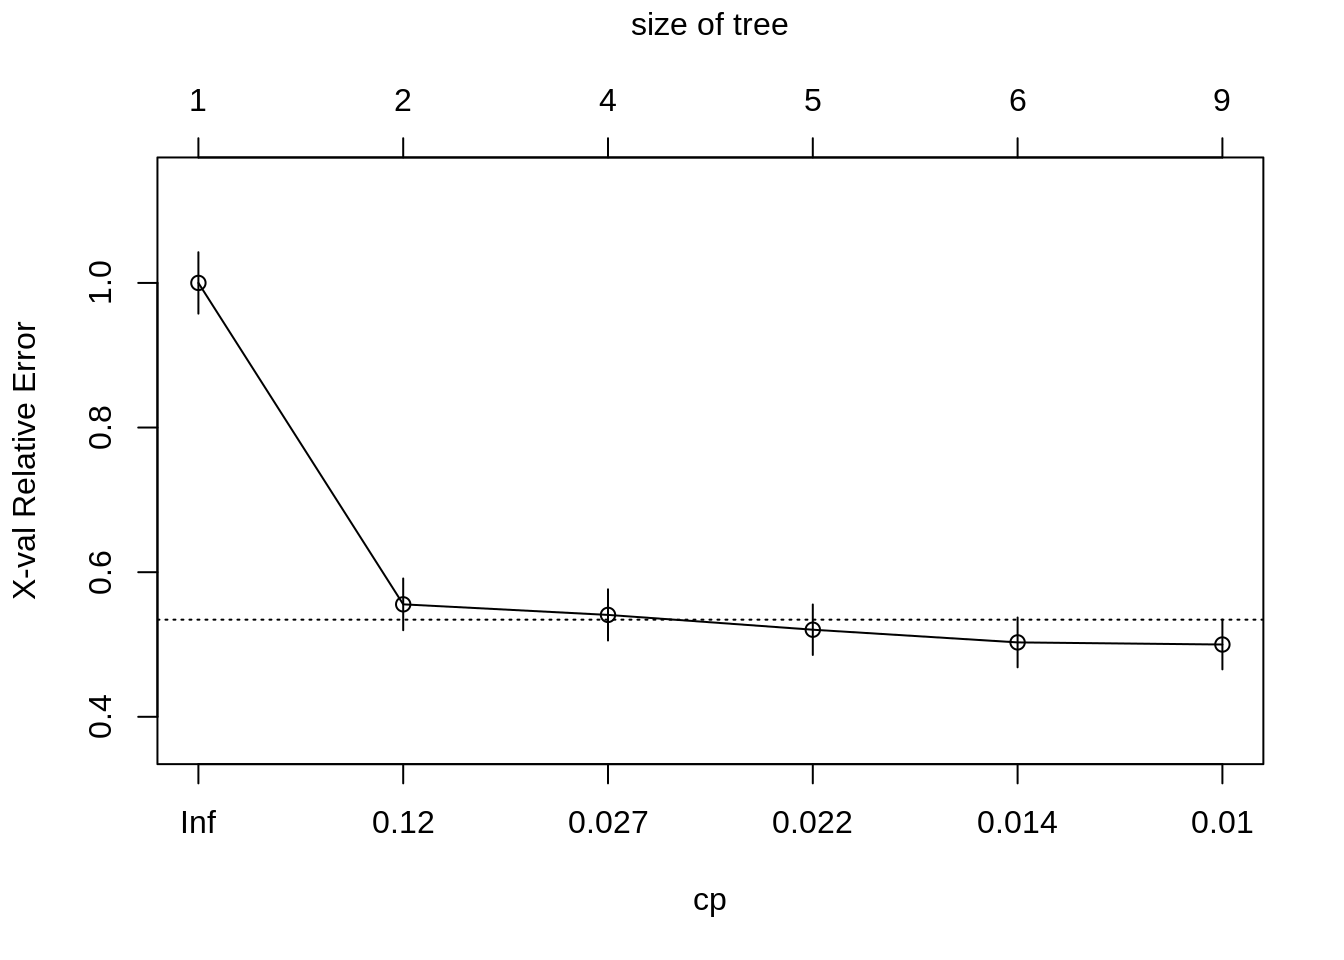
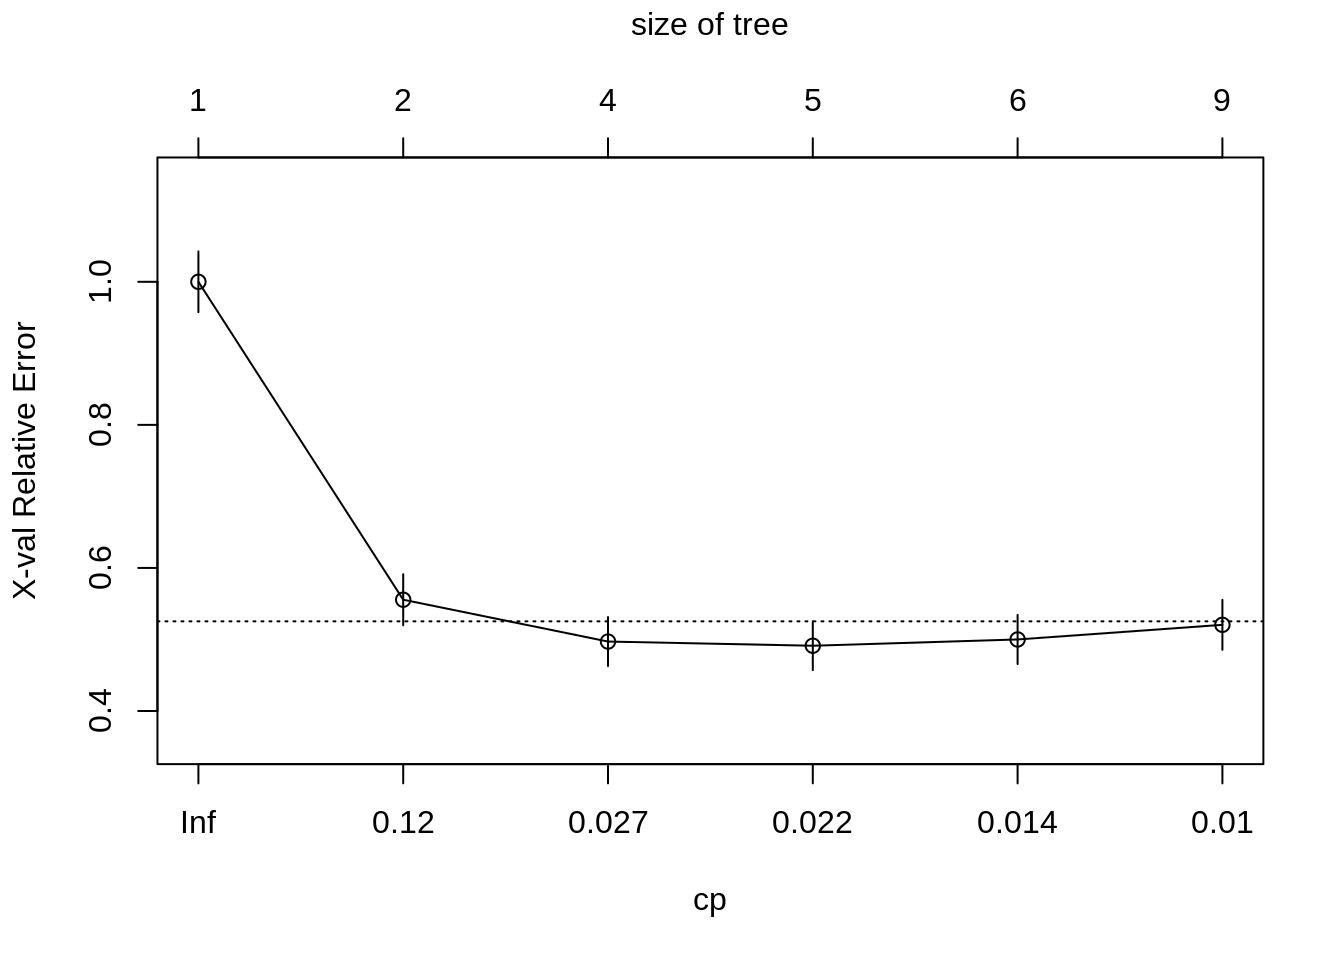
Deploy lebebr01/stat_thinking to github.com/lebebr01/stat_thinking.git:master

diff --git a/docs/classification.html b/docs/classification.html
@@ -324,10 +324,10 @@ titanic &lt;-<span class="st"> </span><span class="kw">bind_rows</span>(titanic_
 ##         CP nsplit rel error  xerror     xstd
 ## 1 0.444444      0   1.00000 1.00000 0.042446
 ## 2 0.030702      1   0.55556 0.55556 0.035750
-## 3 0.023392      3   0.49415 0.54094 0.035402
-## 4 0.020468      4   0.47076 0.52047 0.034897
-## 5 0.010234      5   0.45029 0.50292 0.034448
-## 6 0.010000      8   0.41813 0.50000 0.034372</code></pre>
+## 3 0.023392      3   0.49415 0.49708 0.034295
+## 4 0.020468      4   0.47076 0.49123 0.034140
+## 5 0.010234      5   0.45029 0.50000 0.034372
+## 6 0.010000      8   0.41813 0.52047 0.034897</code></pre>
 <div class="sourceCode"><pre class="sourceCode r"><code class="sourceCode r"><span class="kw">plotcp</span>(class_tree)</code></pre></div>
 <p><img src="05-classification_files/figure-html/unnamed-chunk-6-1.png" width="672" /></p>
 <div class="sourceCode"><pre class="sourceCode r"><code class="sourceCode r">prune_class_tree &lt;-<span class="st"> </span><span class="kw">prune</span>(class_tree, <span class="dt">cp =</span> .<span class="dv">02</span>)

diff --git a/docs/05-classification.md b/docs/05-classification.md
@@ -249,10 +249,10 @@ printcp(class_tree)
 ##         CP nsplit rel error  xerror     xstd
 ## 1 0.444444      0   1.00000 1.00000 0.042446
 ## 2 0.030702      1   0.55556 0.55556 0.035750
-## 3 0.023392      3   0.49415 0.54094 0.035402
-## 4 0.020468      4   0.47076 0.52047 0.034897
-## 5 0.010234      5   0.45029 0.50292 0.034448
-## 6 0.010000      8   0.41813 0.50000 0.034372
+## 3 0.023392      3   0.49415 0.49708 0.034295
+## 4 0.020468      4   0.47076 0.49123 0.034140
+## 5 0.010234      5   0.45029 0.50000 0.034372
+## 6 0.010000      8   0.41813 0.52047 0.034897
 ```
 
 ```r
